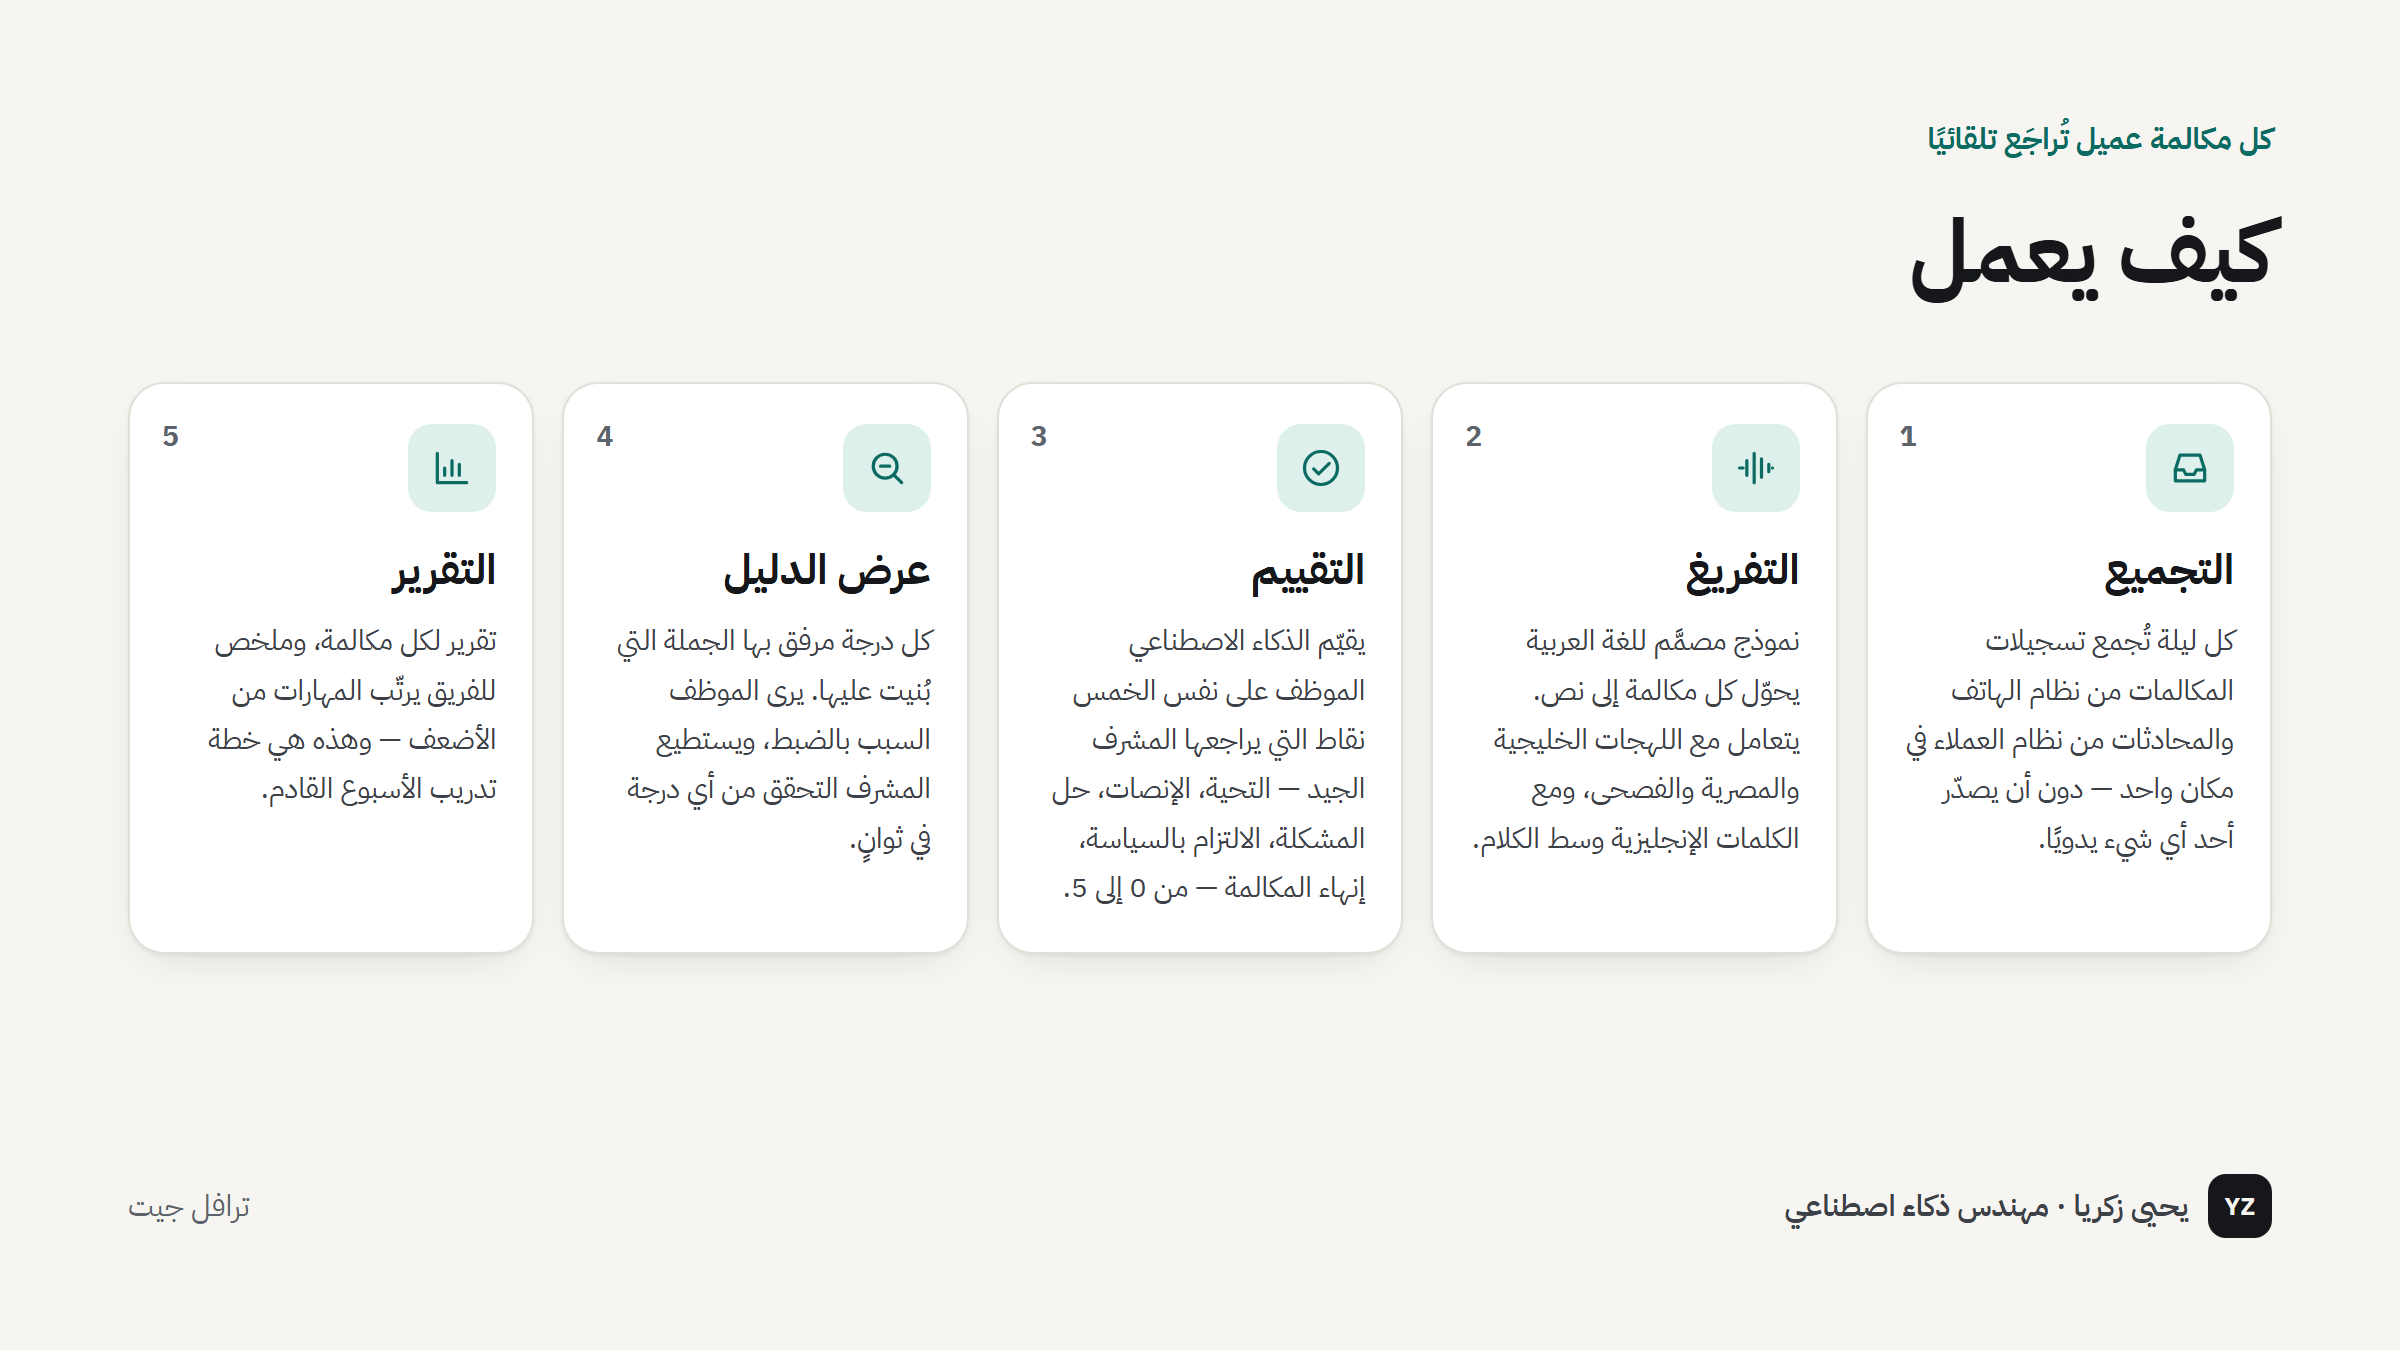
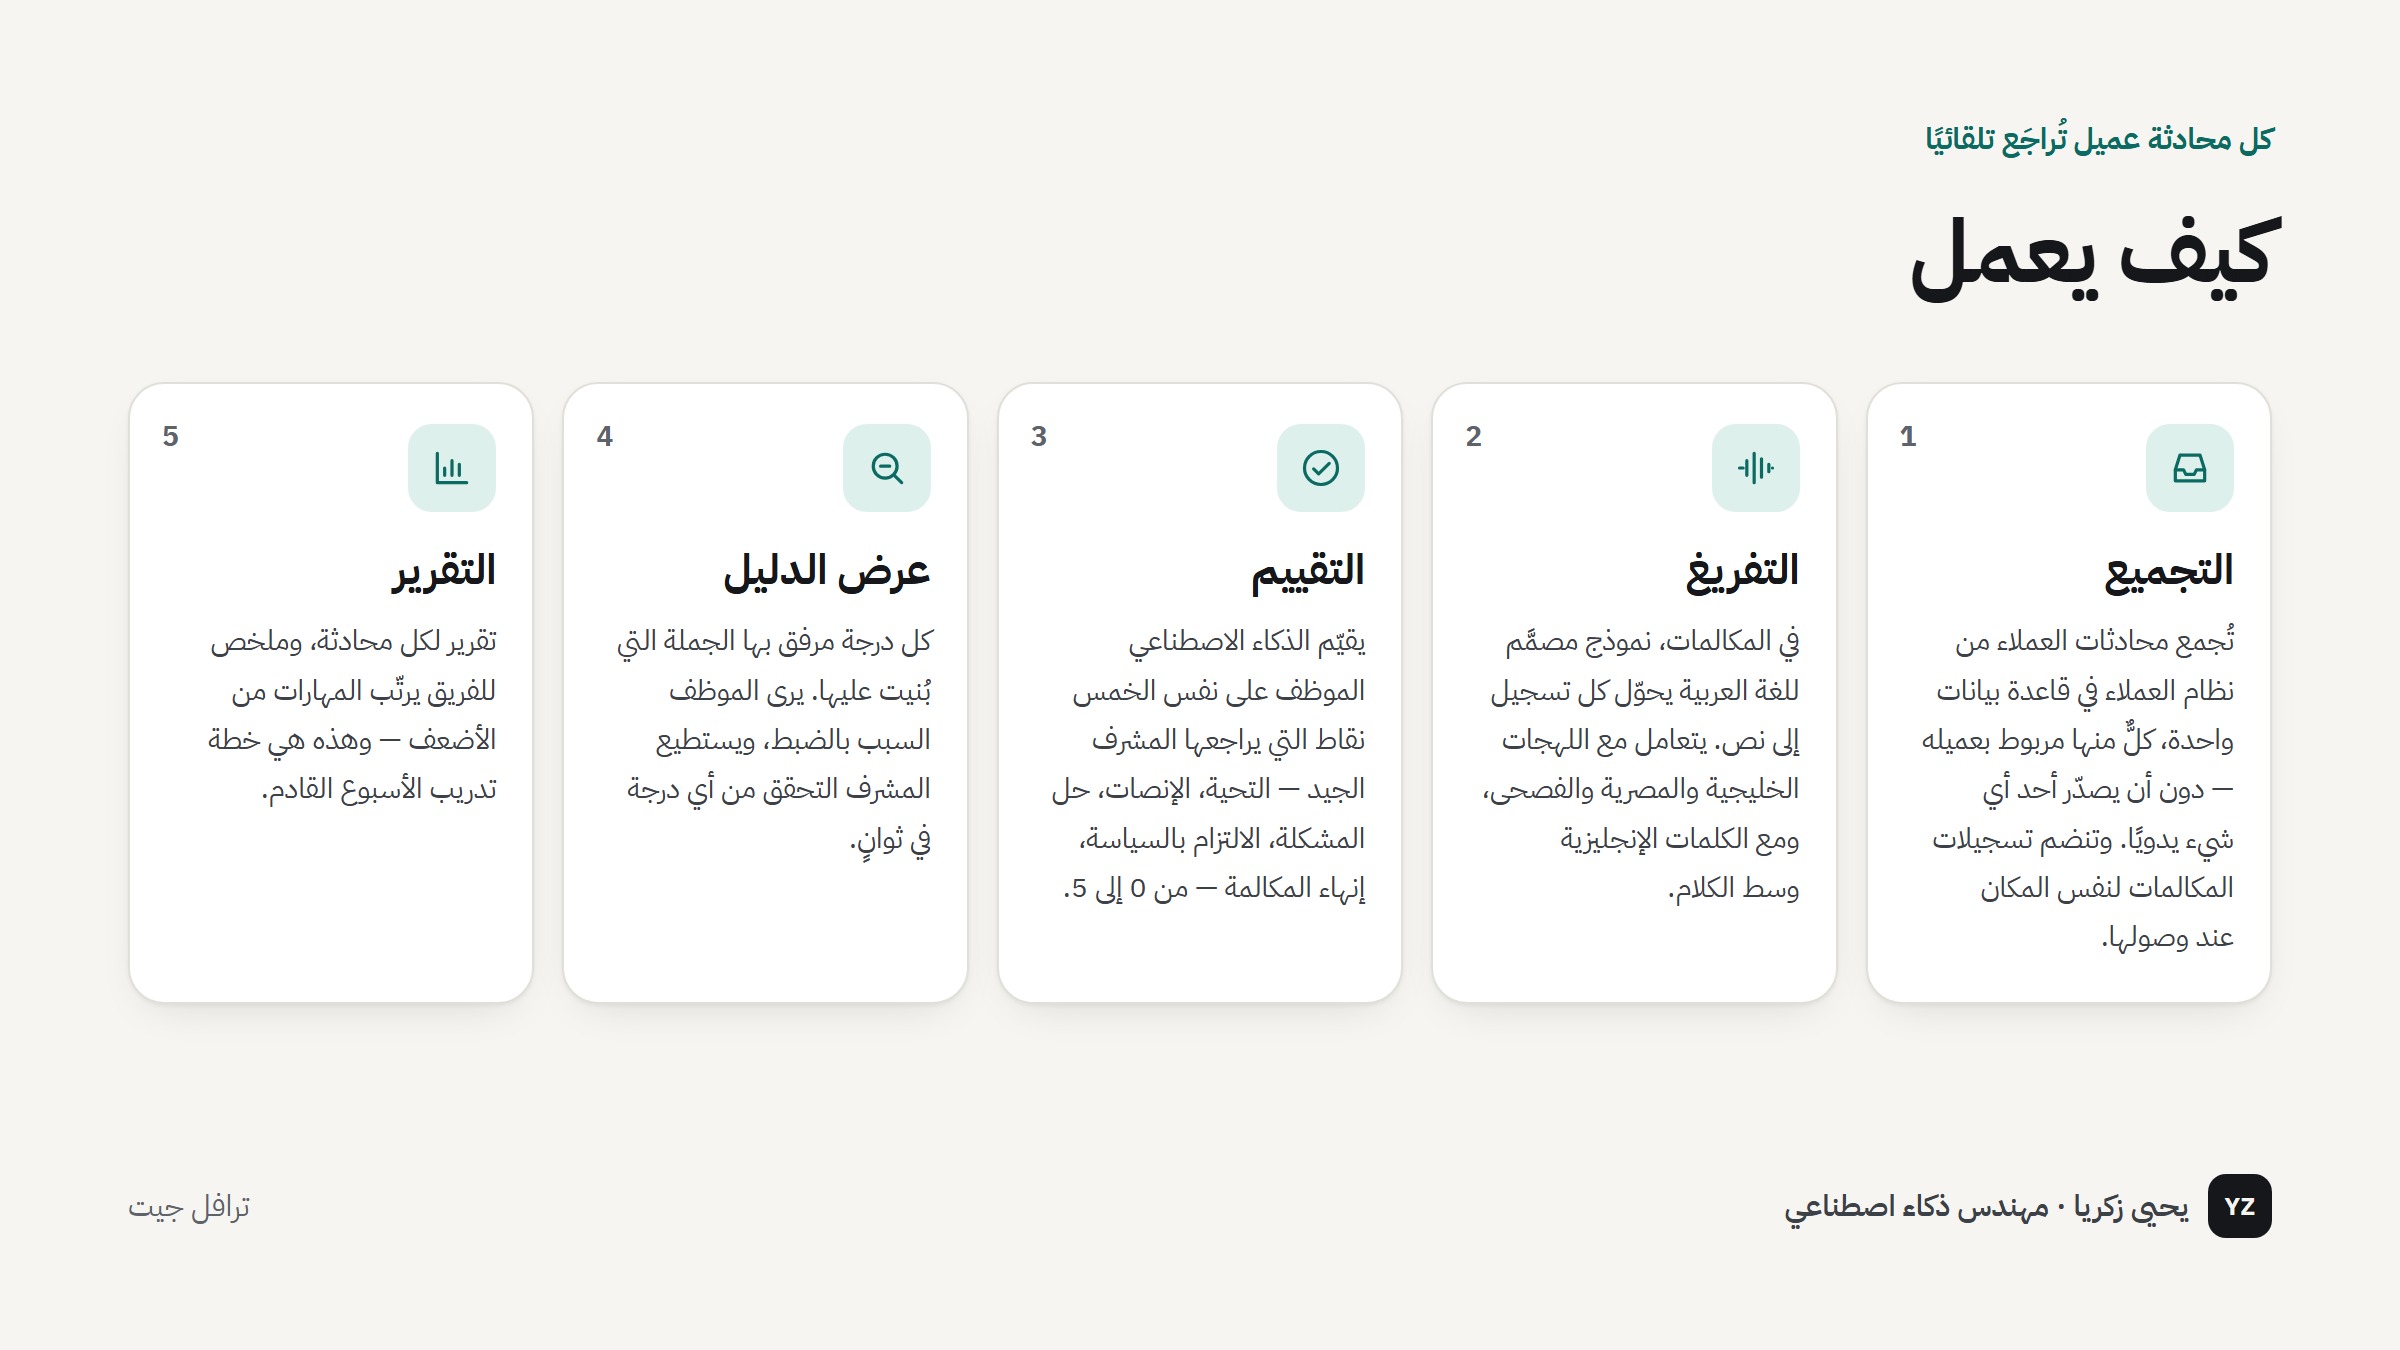
Calls aren't live yet: the review system runs on chats; drop Modal; fold the model comparison into the assistant page
- arabic-call-qa: production claims about calls removed (830 transcribed, 2% to 100%,
  live since September, serverless GPU). It runs on customer chats today; the call side is
  built and shown on sample calls. Chat numbers return once confirmed.
- profile: About and the Travel Gate point say chats; Modal leaves the skills list
  (a platform, not a skill).
- choosing-a-model removed as a separate project; its comparison and examples now sit on the
  support-assistant page, which backs both services.

diff --git a/src/templates/shot.html b/src/templates/shot.html
@@ -342,7 +342,7 @@
       <p class="kicker">{{ t(profile.name) }} · {{ t(profile.role) }}</p>
       <h1>{{ t(profile.headline) }}</h1>
       <ul class="og-proof" role="list">
-        {% for pr in projects[:4] if pr.stats %}{% set s = pr.stats[0] %}
+        {% for pr in (projects | selectattr("stats") | list)[:4] %}{% set s = pr.stats[0] %}
         <li><span class="og-name">{{ t(pr.short_title or pr.title) }}</span><strong>{{ stat_value(s, t) }}</strong><span>{{ t(s.label) }}</span></li>
         {% endfor %}
       </ul>
